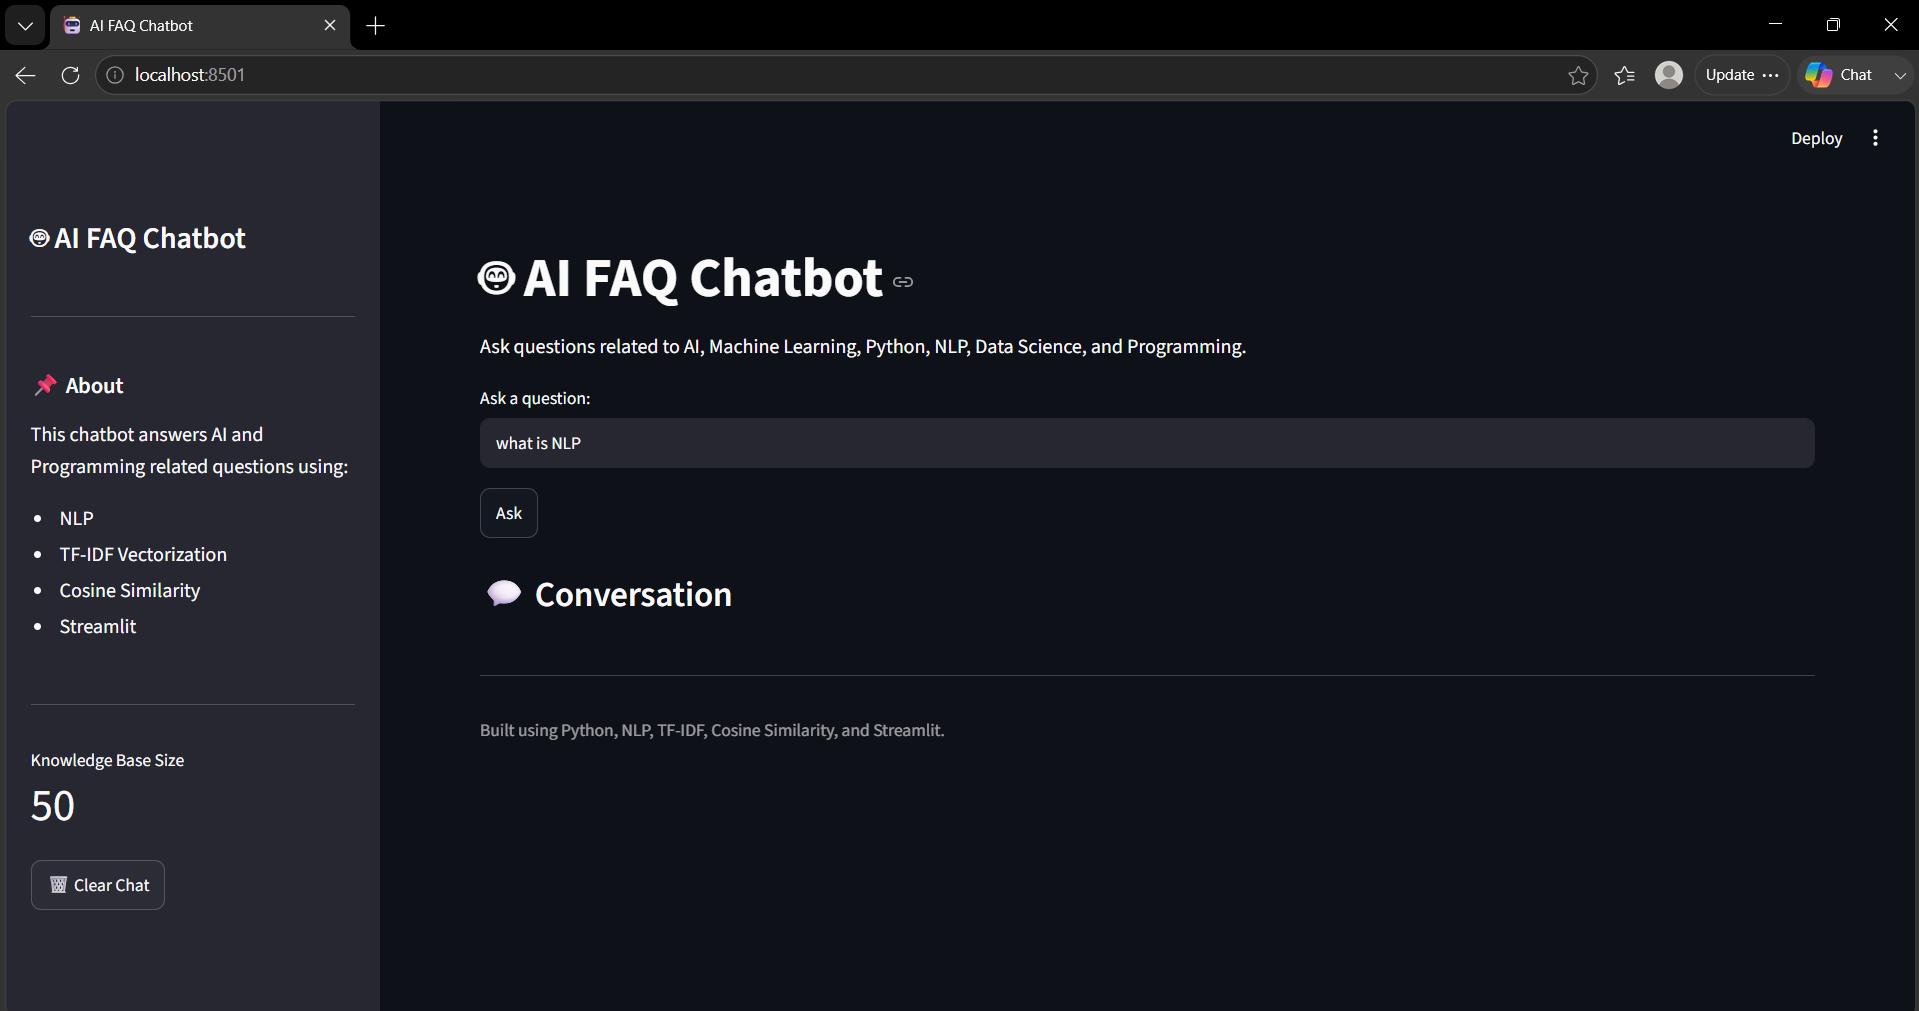
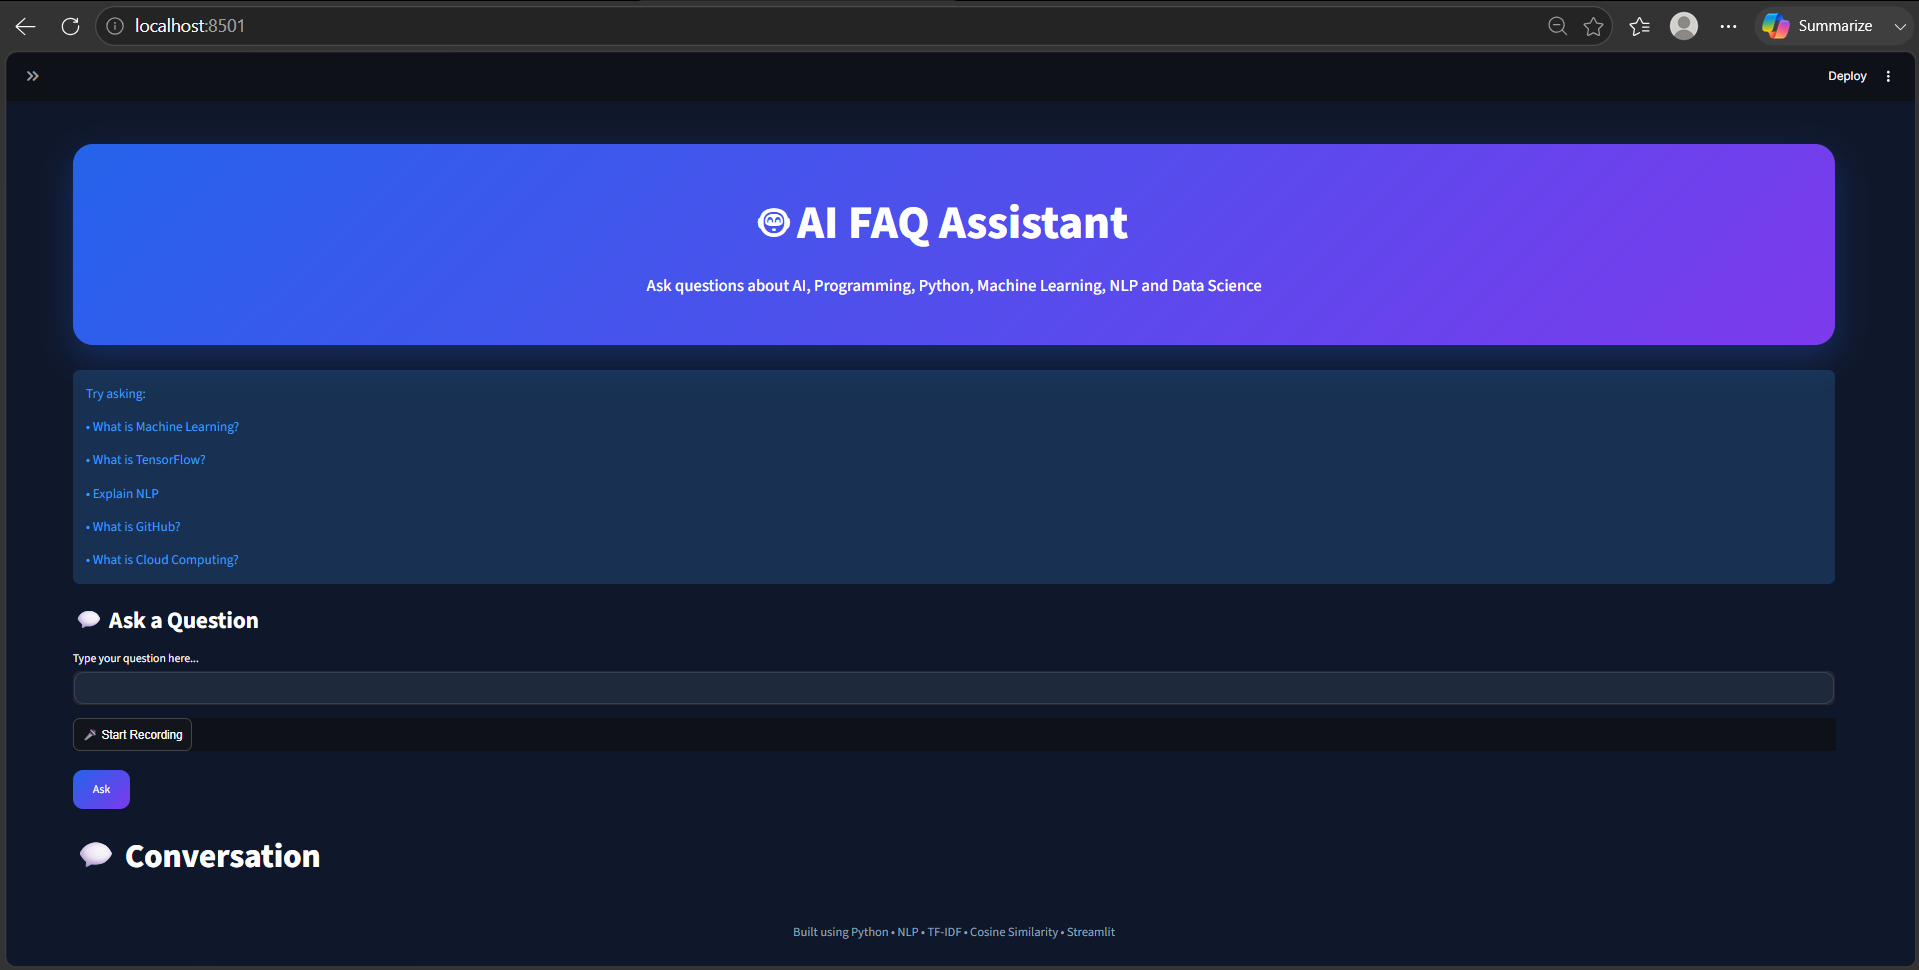
Added project screenshots for documentation

diff --git a/app.py b/app.py
@@ -212,12 +212,12 @@ st.markdown("""
 
 if len(st.session_state.chat_history) == 0:
     st.info("""
-Try asking:
-• What is Machine Learning?
-• What is TensorFlow?
-• Explain NLP
-• What is GitHub?
-• What is Cloud Computing?
+Try asking:\n
+• What is Machine Learning?\n
+• What is TensorFlow?\n
+• Explain NLP\n
+• What is GitHub?\n
+• What is Cloud Computing?\n
 """)
 
 # ---------- INPUT ----------